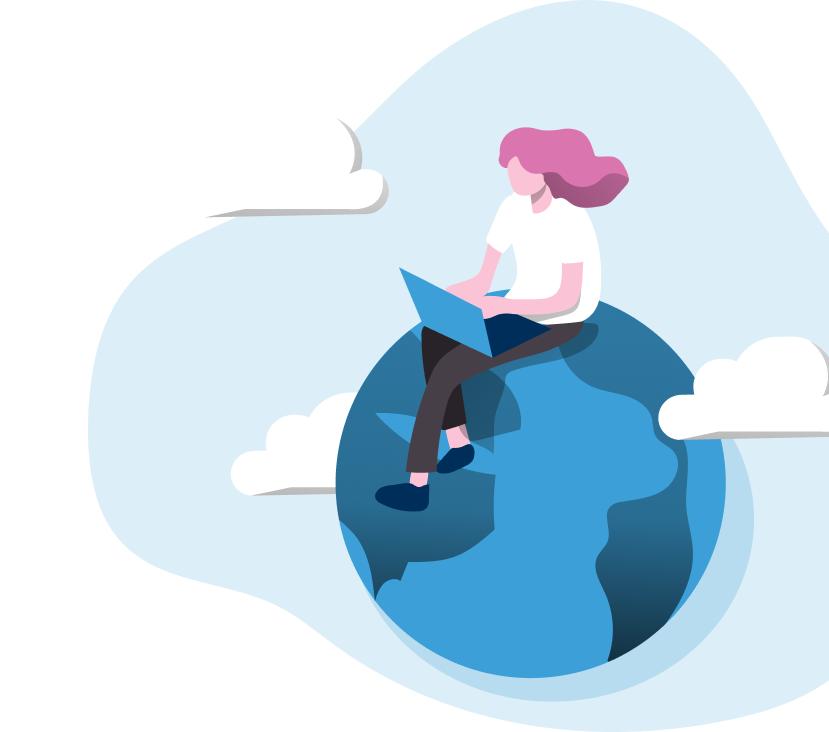
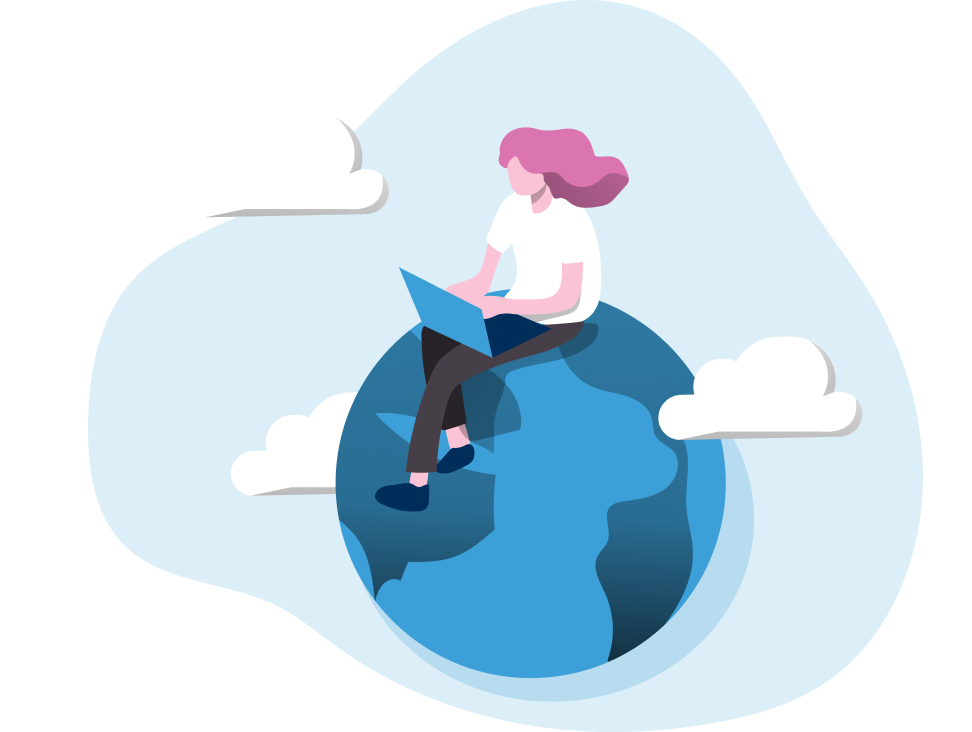
add: landing page responsive-ish, need to talk

diff --git a/components/pages/Landing/Authors/Authors.jsx b/components/pages/Landing/Authors/Authors.jsx
@@ -1,23 +1,21 @@
 import React from 'react'
 import Author from '../../../common/Author/Author'
-import { Row, Wrapper } from './Authors.styles'
+import { Grid, Wrapper } from './Authors.styles'
 
 function Authors() {
     return (
         <Wrapper>
-            <Row>
+            <p className='center'>Tentunya ditulis oleh <b>para ahli yang berpengalaman</b> di bidangnya</p>
+            <Grid>
                 <Author name={'Deric Cheng'} title={'Dev Education at Web3U'} image={'/static/profile/dericCheng.png'} />
                 <Author name={'Deric Cheng'} title={'Dev Education at Web3U'} image={'/static/profile/dericCheng.png'} />
                 <Author name={'Deric Cheng'} title={'Dev Education at Web3U'} image={'/static/profile/dericCheng.png'} />
-            </Row>
-            <p>Tentunya ditulis oleh <b>para ahli yang berpengalaman</b> di bidangnya</p>
-            <Row>
-            <img className='filler' src="/static/assets/authorsImage.png" alt="Authors Image" />
-
+                <img className='filler' src="/static/assets/authorsImage.png" alt="Authors Image" />
                 <Author name={'Deric Cheng'} title={'Dev Education at Web3U'} image={'/static/profile/dericCheng.png'} />
                 <Author name={'Deric Cheng'} title={'Dev Education at Web3U'} image={'/static/profile/dericCheng.png'} />
-            </Row>
+            </Grid>
             <p className='more'>...dan masih banyak lagi!</p>
+            <img className='bottom' src="/static/assets/authorsImage.png" alt="Authors Image" />
         </Wrapper>
     )
 }

diff --git a/components/pages/Landing/Authors/Authors.styles.js b/components/pages/Landing/Authors/Authors.styles.js
@@ -8,23 +8,62 @@ export const Wrapper = styled.section`
     padding-top: 10rem;
     box-shadow: 0px 8px 15px rgba(57, 73, 85, 0.05);
 
-    p{
-        margin-top: 3rem;
-    }
-
-    .filler{
-        width: 30%;
+    .center{
+        position: absolute;
+        top: 55%;
+        left: 35%;
     }
 
     .more{
         position: absolute;
         left: 50%;
-        bottom: 1rem;
+        bottom: 4%;
+    }
+
+    .bottom{
+        display: none;
+    }
+
+    @media (max-width: 768px) {
+        padding: 0 1rem;
+        padding-top: 3rem;
+
+        .center{
+            position: static;
+            font-size: .75rem;
+        }
+
+        .more{
+            position: static;
+            font-size: .75rem;
+        }
+
+        .bottom{
+            display: block;
+            width: 70%;
+            margin: 0 auto;
+        }
     }
 `
 
-export const Row = styled.div`
-    display: flex;
+export const Grid = styled.div`
+    display: grid;
+    grid-template-columns: auto auto auto;
+    gap: 1rem;
     align-items: center;
     justify-content: space-evenly;
+
+    .filler{
+        height: 80%;
+        transform: translateY(15%);
+    }
+
+    @media (max-width: 768px) {
+        grid-template-columns: auto auto;
+        margin: 1rem 0;
+
+        .filler{
+            display: none;
+        }
+    }
 `

diff --git a/components/pages/Landing/Hero/Hero.styles.js b/components/pages/Landing/Hero/Hero.styles.js
@@ -4,6 +4,11 @@ import { COLORS } from "../../../../constants/styles";
 export const Wrapper = styled.section`
     display: flex;
     justify-content: space-between;
+    margin: 3rem auto;
+
+    @media (max-width: 768px) {
+        flex-direction: column;
+    }
 `
 
 export const Left = styled.div`
@@ -32,6 +37,23 @@ export const Left = styled.div`
         -webkit-background-clip: text;
         -webkit-text-fill-color: transparent;
         background-clip: text;
+        font-family: 'Syne', sans-serif;
+    }
+
+    @media (max-width: 768px) {
+        align-items: center;
+
+        h1{
+            font-size: 1.5rem;
+            text-align: center;
+        }
+
+        div{
+            border-radius: 10rem;
+            padding: 1rem .5rem;
+            align-items: center;
+            gap: 1rem;
+        }
     }
 `
 
@@ -41,6 +63,21 @@ export const Right = styled.div`
     align-items: center;
     
     img{
-        height: 85%;
+        height: 100%;
+        transform: translateX(20%);
+    }
+    
+    @media (max-width: 768px) {
+        display: flex;
+        justify-content: center;
+        align-items: center;
+        text-align: center;
+        width: fit-content;
+        margin-top: 2rem;
+
+        img{
+            height: 15rem;
+            transform: translateX(0);
+        }
     }
 `

diff --git a/components/pages/Landing/About/About.styles.js b/components/pages/Landing/About/About.styles.js
@@ -5,7 +5,7 @@ export const Wrapper = styled.section`
     display: flex;
     align-items: center;
     justify-content: space-evenly;
-    background: white;
+    background: ${COLORS.white};
     padding: 5rem;
     margin-bottom: 10rem;
     box-shadow: 0px 8px 15px rgba(57, 73, 85, 0.05);
@@ -24,5 +24,28 @@ export const Wrapper = styled.section`
     h1{
         font-size: 2.5rem;
         margin-bottom: 2rem;
+    }
+
+    @media (max-width: 768px) {
+        flex-direction: column;
+        padding: 2rem;
+
+        div{
+            width: 100%;
+            text-align: center;
+        }
+
+        div p{
+            font-size: .75rem;
+        }
+
+        h1{
+            font-size: 1.75rem;
+            margin: .75rem 0;
+        }
+
+        img{
+            width: 25%;
+        }
     }
 `

diff --git a/components/common/Author/Author.styles.js b/components/common/Author/Author.styles.js
@@ -10,6 +10,19 @@ export const Wrapper = styled.div`
     justify-content: center;
     gap: 1rem;
     padding: 1rem 3rem;
+
+    img{
+        width: 20%;
+    }
+
+    @media (max-width: 768px) {
+        padding: .5rem 1rem;
+        gap: .5rem;
+
+        img{
+            width: 25%;
+        }
+    }
 `
 
 export const Info = styled.div`
@@ -20,5 +33,16 @@ export const Info = styled.div`
     h3{
         font-size: 1rem;
         font-weight: 400;
+    }
+
+    @media (max-width: 768px) {
+        width: 6.5rem;
+        h2{
+            font-size: .75rem;
+        }
+
+        h3{
+            font-size: .5rem;
+        }
     }
 `

diff --git a/pages/_document.js b/pages/_document.js
@@ -5,7 +5,7 @@ export default function Document() {
     <Html>
       <Head>
         <link rel="preconnect" href="https://fonts.googleapis.com" />
-        <link rel="preconnect" href="https://fonts.gstatic.com" crossOrigin />
+        <link rel="preconnect" href="https://fonts.gstatic.com" crossOrigin="true" />
         <link href="https://fonts.googleapis.com/css2?family=Rubik:wght@300;400;500;600&family=Syne:wght@400;500;600;700&display=swap" rel="stylesheet" />
       </Head>
       <body>

diff --git a/components/common/Button/Button.styles.js b/components/common/Button/Button.styles.js
@@ -13,7 +13,6 @@ export const Wrapper = styled.button`
     color: ${COLORS.white};
     font-size: 1rem;
     font-weight: 500;
-    margin: 1rem 0;
     cursor: pointer;
 
     :hover{
@@ -23,5 +22,14 @@ export const Wrapper = styled.button`
     span{
         font-size: 1.2rem;
         display: flex;
+    }
+
+    @media (max-width: 768px) {
+        font-size: .75rem;
+        padding: .75rem 1.25rem;
+        
+        span{
+            font-size: 1rem;
+        }
     }
 `

diff --git a/components/pages/Landing/Community/Community.styles.js b/components/pages/Landing/Community/Community.styles.js
@@ -10,4 +10,25 @@ export const Wrapper = styled.section`
         transform: translateY(10%);
         z-index: -10;
     }
+
+    div{
+        display: flex;
+        flex-direction: column;
+        align-items: flex-start;
+        justify-content: center;
+        gap: 1rem;
+    }
+
+    @media (max-width: 768px) {
+        padding: 2rem;
+        font-size: .85rem;
+
+        div{
+            gap: 0;
+        }
+
+        img{
+            width: 40%;
+        }
+    }
 `

diff --git a/components/pages/Landing/Articles/Articles.styles.js b/components/pages/Landing/Articles/Articles.styles.js
@@ -25,12 +25,22 @@ export const Top = styled.div`
     p{
         width: 25%;
     }
+
+    @media (max-width: 768px) {
+        p{
+            width: 80%;
+            font-size: .75rem;
+        }
+    }
 `
 
 export const Grid = styled.div`
     display: grid;
     grid-template-columns: auto auto auto;
-    grid-template-rows: auto auto;
+
+    @media (max-width: 768px) {
+        grid-template-columns: auto auto;
+    }
 `
 
 export const Bottom = styled.div`

diff --git a/components/common/Footer/Footer.styles.js b/components/common/Footer/Footer.styles.js
@@ -18,4 +18,12 @@ export const Wrapper = styled.footer`
     p{
         color: white;
     }
+
+    @media (max-width: 768px) {
+        gap: 1rem;
+        
+        img{
+            width: 10%;
+        }
+    }
 `

diff --git a/styles/GlobalStyles.js b/styles/GlobalStyles.js
@@ -11,6 +11,7 @@ export const GlobalStyles = createGlobalStyle`
 
     body{
         background: ${COLORS.lightGrey};
+        overflow-x: hidden;
     }
 
     h1{
